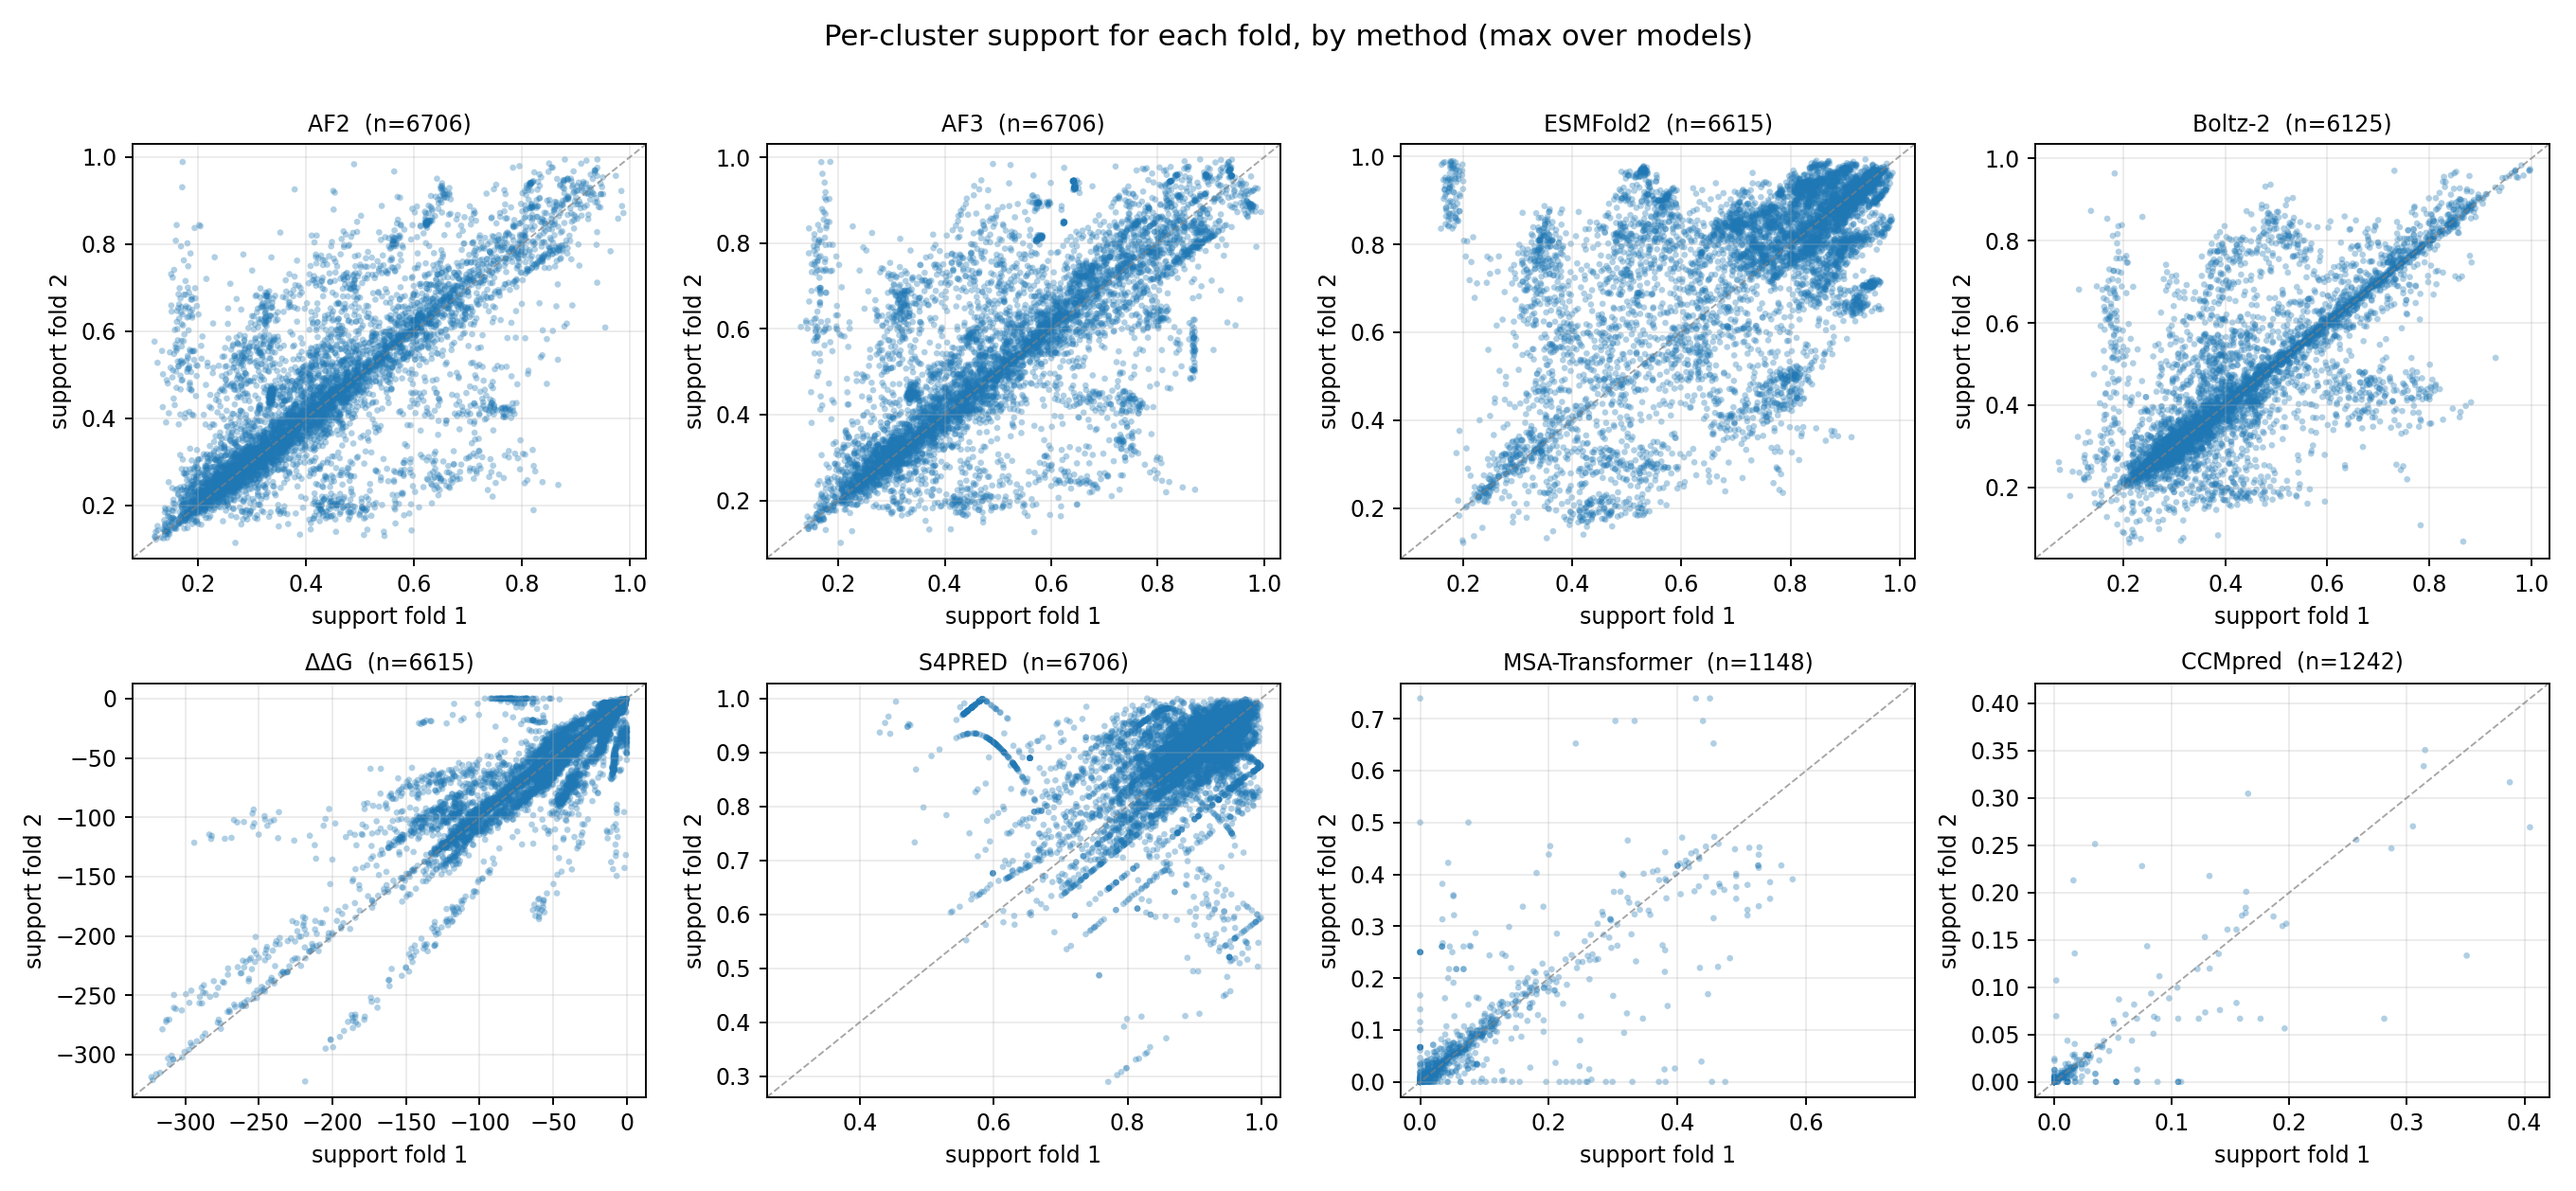
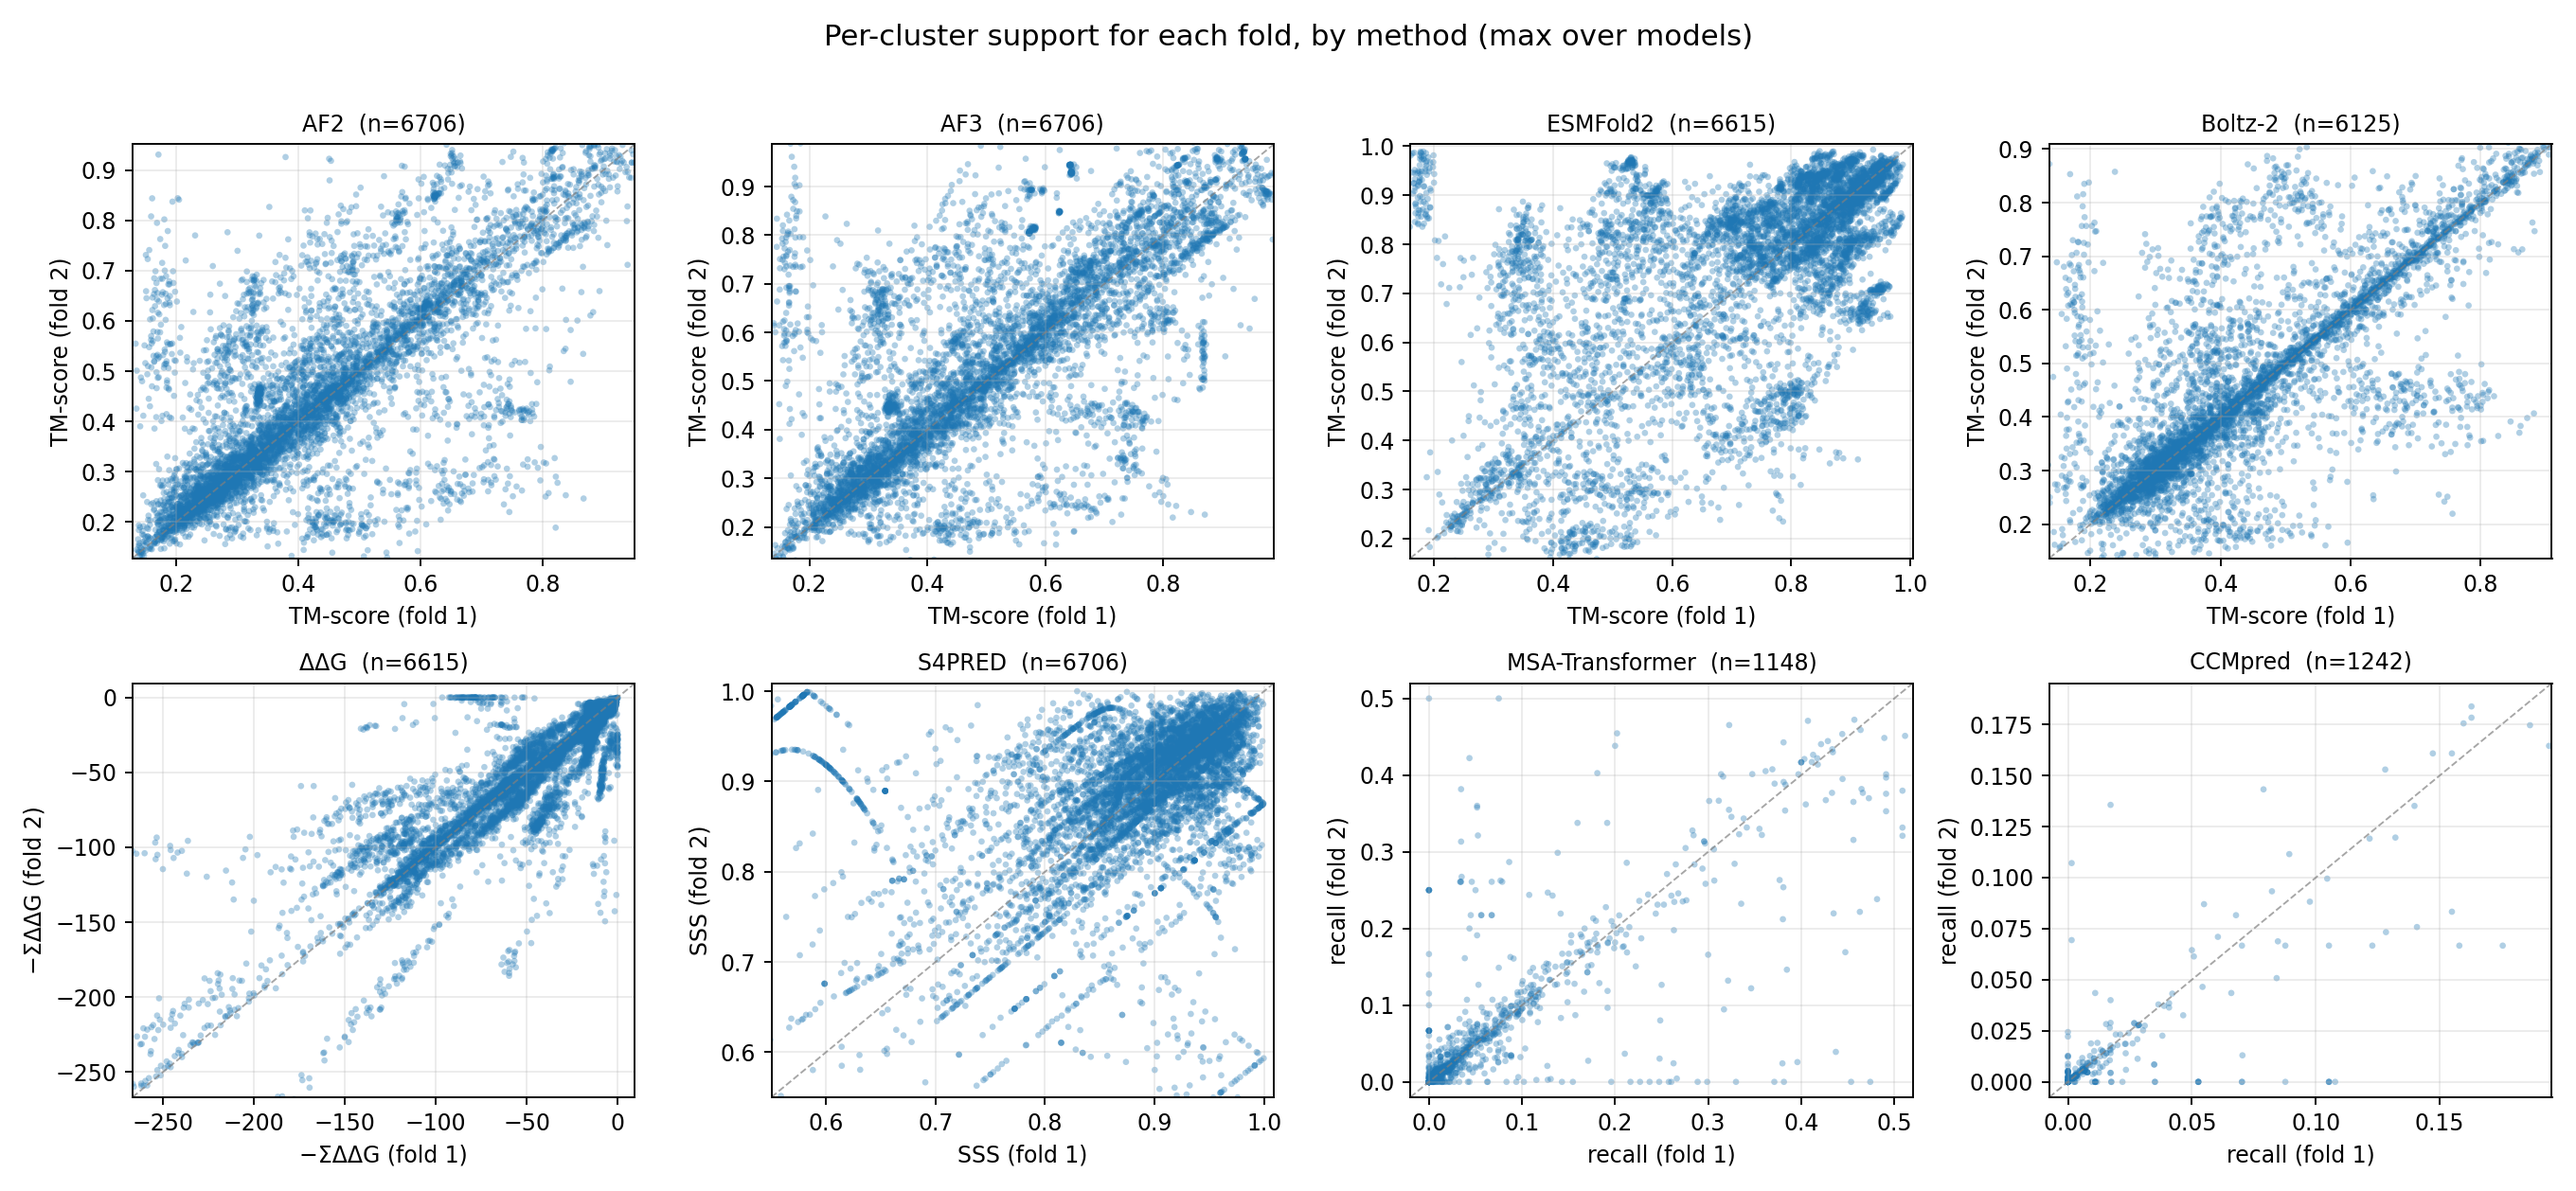
per-fold panel: native per-method axis labels + robust limits
Axes now name each method's native metric (central METHOD_METRIC map):
TM-score (AF2/AF3/ESMFold2/Boltz-2), −ΣΔΔG kcal/mol (DDG), SSS = SS H/E
composition similarity (S4PRED), contact recall (MSA-Transformer/CCMpred).
Robust 1-99 pct axis limits so DDG's extreme-destabilization outliers don't
crush the cloud. Caption explains the per-method banding (quantized recall /
SS composition / shared-position ΔΔG sums).

diff --git a/docs/pairs_global_analysis.html b/docs/pairs_global_analysis.html
@@ -25,7 +25,7 @@
 fold-switching pair set. Each figure is described above it.</p>
 <section class="fig">
   <h2>Per-fold support, by method</h2>
-  <p class="caption">Each panel is one method. For every sequence cluster we plot its predicted support for fold 1 (x) against fold 2 (y). For AF2, AF3, ESMFold2 and Boltz-2 the axes are TM-scores to each reference structure; for ΔΔG, MSA-Transformer, CCMpred and S4PRED they are the unified per-fold proxy (stability / contact recall / secondary-structure similarity) mapped onto a common scale. A cluster near the diagonal reaches both folds (fold-switcher); off-diagonal clusters prefer one fold. Spread along both axes means the method is resolving fold-specific signal.</p>
+  <p class="caption">Each panel is one method; every point is a sequence cluster, plotting its support for fold 1 (x) against fold 2 (y) in that method&#x27;s NATIVE metric: TM-score to each reference structure (AF2/AF3/ESMFold2/Boltz-2), summed ΔΔG stability in kcal/mol (DDG), secondary-structure H/E composition similarity (S4PRED), and contact-map recall (MSA-Transformer, CCMpred). A cluster near the diagonal reaches both folds (fold-switcher); off-diagonal clusters prefer one fold. The visible banding is each method&#x27;s intrinsic discretization — integer contact counts quantize recall, coarse H/E composition quantizes the S4PRED similarity, and ΔΔG sums over a shared set of mutated positions (so fold-1 and fold-2 stability move together, giving diagonal stripes). Contact methods sit at low absolute values, as expected.</p>
   <img loading="lazy" src="figures/global/global_per_fold_support_panel.png" alt="Per-fold support, by method"/>
 </section>
 <section class="fig">

diff --git a/utils/plot_global.py b/utils/plot_global.py
@@ -6,7 +6,7 @@ import pandas as pd
 import matplotlib.pyplot as plt
 
 from config import TABLES_RES
-from utils.method_labels import METHOD_ORDER, disp, order_methods
+from utils.method_labels import METHOD_ORDER, disp, order_methods, metric_label
 
 SURVEY_CSV = os.path.join(TABLES_RES, "fold_diversity_survey.csv")
 
@@ -26,15 +26,18 @@ GLOBAL_FIGURE_SPEC = [
         "file": "figures/global/global_per_fold_support_panel.png",
         "title": "Per-fold support, by method",
         "caption":
-            "Each panel is one method. For every sequence cluster we plot its "
-            "predicted support for fold 1 (x) against fold 2 (y). For AF2, AF3, "
-            "ESMFold2 and Boltz-2 the axes are TM-scores to each reference "
-            "structure; for ΔΔG, MSA-Transformer, CCMpred and S4PRED they are the "
-            "unified per-fold proxy (stability / contact recall / secondary-"
-            "structure similarity) mapped onto a common scale. A cluster near the "
-            "diagonal reaches both folds (fold-switcher); off-diagonal clusters "
-            "prefer one fold. Spread along both axes means the method is resolving "
-            "fold-specific signal.",
+            "Each panel is one method; every point is a sequence cluster, plotting "
+            "its support for fold 1 (x) against fold 2 (y) in that method's NATIVE "
+            "metric: TM-score to each reference structure (AF2/AF3/ESMFold2/"
+            "Boltz-2), summed ΔΔG stability in kcal/mol (DDG), secondary-structure "
+            "H/E composition similarity (S4PRED), and contact-map recall "
+            "(MSA-Transformer, CCMpred). A cluster near the diagonal reaches both "
+            "folds (fold-switcher); off-diagonal clusters prefer one fold. The "
+            "visible banding is each method's intrinsic discretization — integer "
+            "contact counts quantize recall, coarse H/E composition quantizes the "
+            "S4PRED similarity, and ΔΔG sums over a shared set of mutated positions "
+            "(so fold-1 and fold-2 stability move together, giving diagonal "
+            "stripes). Contact methods sit at low absolute values, as expected.",
     },
     {
         "file": "figures/global/global_morans_method_x_pair.png",
@@ -119,16 +122,21 @@ def plot_per_fold_support_panel(output_dir: str, agg: str = "max") -> None:
         x, y = x[good], y[good]
         ax.scatter(x, y, s=8, alpha=0.35, edgecolors="none")
         if len(x):
-            lo = float(min(x.min(), y.min()))
-            hi = float(max(x.max(), y.max()))
+            # Robust limits (1-99 pct of both axes together) so a few extreme
+            # outliers -- e.g. DDG's very destabilized clusters -- don't crush
+            # the rest of the cloud; same range on both axes (y=x reference).
+            both = np.concatenate([x.values, y.values])
+            lo = float(np.nanpercentile(both, 1))
+            hi = float(np.nanpercentile(both, 99))
             pad = 0.04 * (hi - lo or 1.0)
             ax.plot([lo - pad, hi + pad], [lo - pad, hi + pad],
                     color="gray", lw=0.8, ls="--", alpha=0.7)
             ax.set_xlim(lo - pad, hi + pad)
             ax.set_ylim(lo - pad, hi + pad)
+        mm = metric_label(m)
         ax.set_title(f"{disp(m)}  (n={int(good.sum())})", fontsize=10)
-        ax.set_xlabel("support fold 1")
-        ax.set_ylabel("support fold 2")
+        ax.set_xlabel(f"{mm} (fold 1)")
+        ax.set_ylabel(f"{mm} (fold 2)")
         ax.grid(True, alpha=0.25)
 
     for ax in axes[len(methods):]:

diff --git a/utils/method_labels.py b/utils/method_labels.py
@@ -30,9 +30,28 @@ METHOD_DISPLAY = {
 }
 
 
+# KEY -> the NATIVE per-fold metric each method reports (what the TM1/TM2 slots
+# of the unified survey actually hold). Used for per-method axis labels.
+METHOD_METRIC = {
+    "AF2":     "TM-score",
+    "AF3":     "TM-score",
+    "ESM":     "TM-score",
+    "Boltz2":  "TM-score",
+    "DDG":     "−ΣΔΔG",        # kcal/mol, higher = more stable on that fold
+    "S4PRED":  "SSS",          # secondary-structure (H/E) composition similarity
+    "MSAT":    "recall",       # contact-map recall
+    "CCMpred": "recall",
+}
+
+
 def disp(method: str) -> str:
     """Display label for a method key (falls back to the key itself)."""
     return METHOD_DISPLAY.get(method, method)
+
+
+def metric_label(method: str) -> str:
+    """Native per-fold metric name for a method (for axis labels)."""
+    return METHOD_METRIC.get(method, "support")
 
 
 def order_methods(present):
